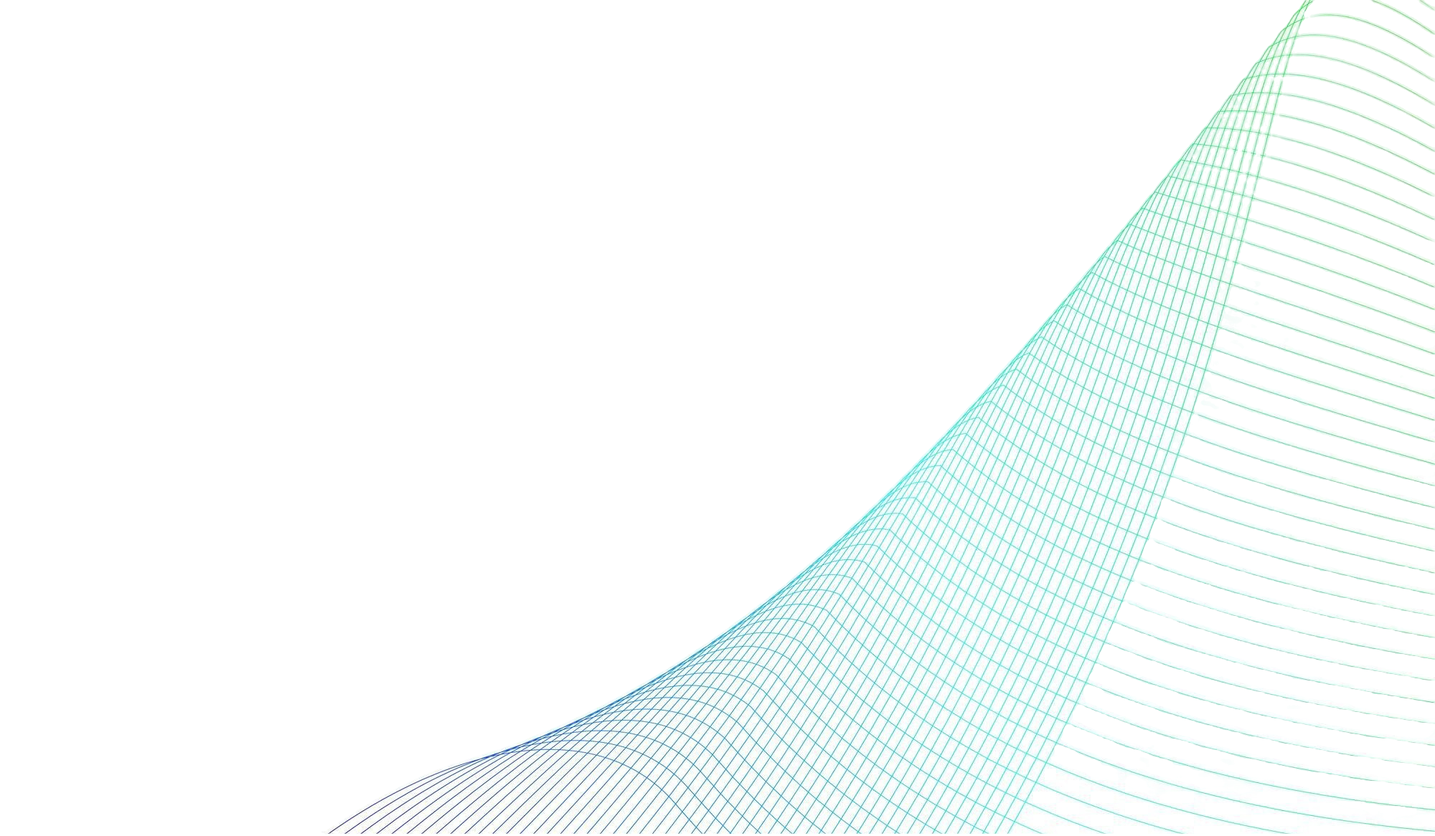
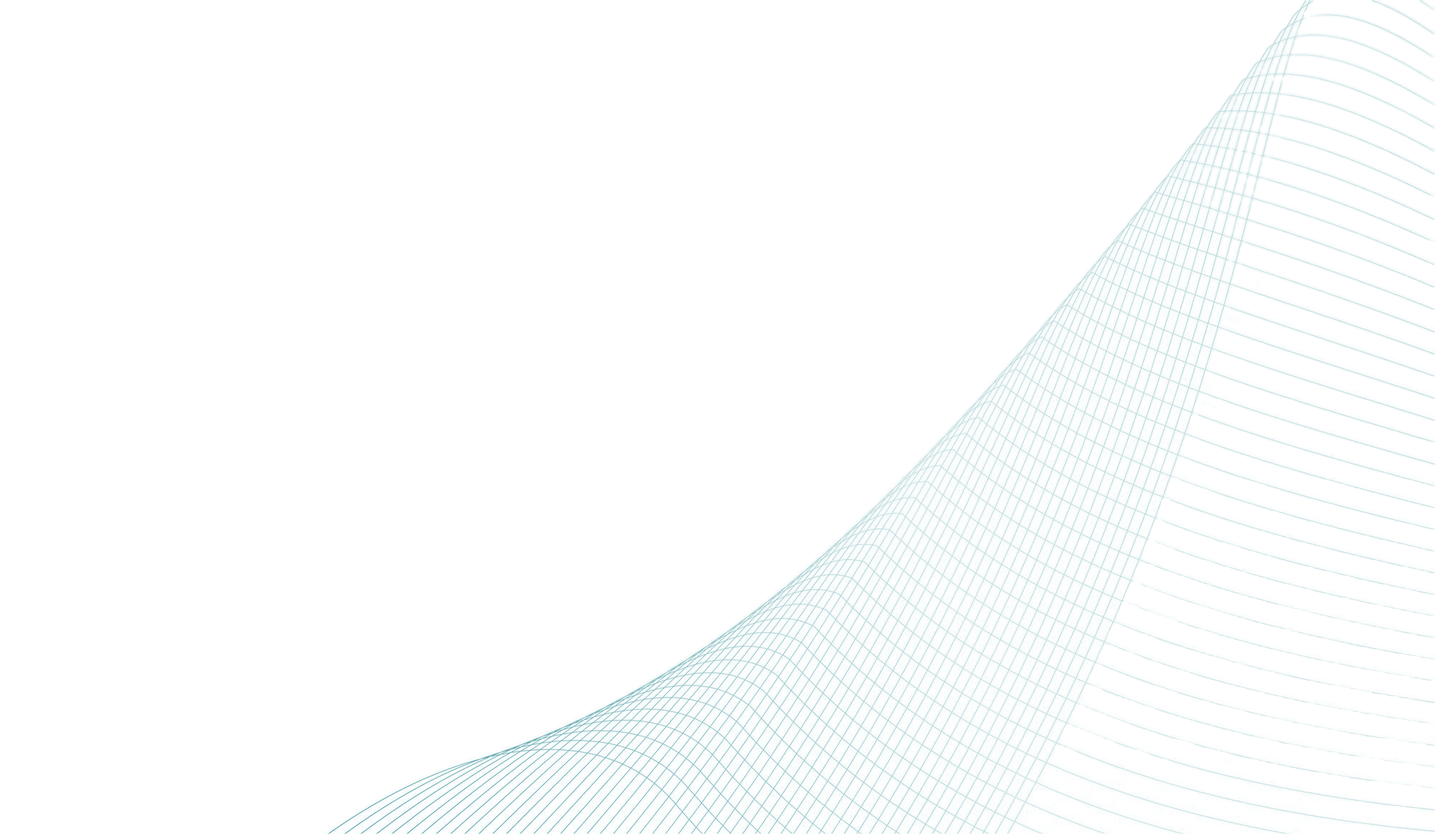
Changing colors and backgrounds

diff --git a/app/services/components/service.tsx b/app/services/components/service.tsx
@@ -56,14 +56,14 @@ export default function Service() {
     return (
         <section className="lg:flex lg:flex-col lg:items-center lg:h-full lg:w-full">
             <Header />
-            <div className="lg:grid lg:items-center lg:grid-cols-3 lg:p-10 lg:flex lg:w-full lg:h-full bg-white flex flex-col">
+            <div className="lg:grid lg:items-center lg:grid-cols-3 lg:p-10 lg:flex lg:w-full lg:h-full bg-white flex flex-col lg:overflow-hidden">
                 <div id="automation" className="lg:relative lg:w-[600px] lg:h-[700px] lg:rounded-[10px] lg:overflow-hidden 
                     before:absolute lg:before:top-[-50%] lg:before:bottom-[-50%] lg:before:right-[-50%] lg:before:left-[-50%]
                     before:top-[-80%] before:bottom-[-80%] before:right-[-80%] before:left-[-80%] 
-                    before:bg-[conic-gradient(transparent,#594A28,#00a6ff)]
+                    before:bg-[conic-gradient(transparent,#273950,#5ca9b1)]
                     before:animate-spin-slow group relative w-[400px] h-[800px] overflow-hidden rounded-[10px]" data-aos="fade-up-right">
                     <div className="lg:absolute absolute lg:flex flex lg:flex-col flex-col lg:gap-10 gap-5 items-center top-[5px] bottom-[5px] left-[5px] right-[5px] rounded-[10px] bg-white bg-[url(../public/rb_23189.png)] bg-cover bg-no-repeat">
-                        <h3 className="text-4xl pt-20 select-none text-left">Automation</h3>
+                        <h3 className="text-4xl pt-20 select-none text-[#1c5a6c]">Automation</h3>
                         <p className="text-2xl select-none text-justify p-10 backdrop-blur-2xl">Adjust and adapt AI agent features to meet your company&apos;s specific needs and preferences</p>
                         <div className="lg:flex lg:gap-40 lg:pt-5">
                             <AutomationList />
@@ -73,7 +73,7 @@ export default function Service() {
                             
                         </div>
                         <motion.button
-                            className="flex gap-2 absolute bottom-3 left-10 text-[#594A28] px-2 py-1 lg:opacity-0 lg:group-hover:opacity-100 lg:transition-opacity lg:duration-300"
+                            className="flex gap-2 absolute bottom-3 left-10 text-[#273950] px-2 py-1 lg:opacity-0 lg:group-hover:opacity-100 lg:transition-opacity lg:duration-300"
                             whileHover={{ scale: 1.3 }}
                             onClick={() => toggleShowMore('section1')}
                         >
@@ -85,16 +85,16 @@ export default function Service() {
                 <div id="consulting" className="lg:relative lg:w-[600px] lg:h-[700px] lg:rounded-[10px] lg:overflow-hidden 
                     before:absolute lg:before:top-[-50%] lg:before:bottom-[-50%] lg:before:right-[-50%] lg:before:left-[-50%]
                     before:top-[-80%] before:bottom-[-80%] before:right-[-80%] before:left-[-80%] 
-                    before:bg-[conic-gradient(transparent,#594A28,#00a6ff)]
+                    before:bg-[conic-gradient(transparent,#273950,#5ca9b1)]
                     before:animate-spin-slow group relative w-[400px] h-[800px] overflow-hidden rounded-[10px]" data-aos="fade-up">
                     <div className="absolute flex flex-col items-center gap-10 top-[5px] bottom-[5px] left-[5px] right-[5px] rounded-[10px] bg-white bg-[url(../public/673.png)] bg-cover bg-no-repeat">
-                        <h3 className="text-4xl pt-20 select-none">Consulting</h3>
+                        <h3 className="text-4xl pt-20 select-none text-[#1c5a6c]">Consulting</h3>
                         <p className="text-2xl text-justify p-10 select-none backdrop-blur-2xl">Software and technology to execute repetitive and routine tasks that save time, reduce errors and increase operational efficiency in various areas, from business management to software development</p>
                         <div>
                             <ConsultingList />
                         </div>
                         <motion.button
-                            className="flex gap-2 absolute bottom-3 left-10 text-[#594A28] px-2 py-1 lg:opacity-0 lg:group-hover:opacity-100 lg:transition-opacity lg:duration-300"
+                            className="flex gap-2 absolute bottom-3 left-10 text-[#273950] px-2 py-1 lg:opacity-0 lg:group-hover:opacity-100 lg:transition-opacity lg:duration-300"
                             whileHover={{ scale: 1.3 }}
                             onClick={() => toggleShowMore('section2')}
                         >
@@ -103,13 +103,13 @@ export default function Service() {
                         </motion.button>
                     </div>
                 </div>
-                <div id="development" className="relative lg:w-[600px] lg:h-[700px] rounded-[10px] overflow-hidden 
+                <div id="development" className="relative lg:w-[600px] lg:h-[700px] rounded-[10px] lg:overflow-hidden 
                     before:absolute lg:before:top-[-50%] lg:before:bottom-[-50%] lg:before:right-[-50%] lg:before:left-[-50%]
                     before:top-[-80%] before:bottom-[-80%] before:right-[-80%] before:left-[-80%]
-                    before:bg-[conic-gradient(transparent,#594A28,#00a6ff)]
+                    before:bg-[conic-gradient(transparent,#273950,#5ca9b1)]
                     before:animate-spin-slow group relative w-[400px] h-[800px] overflow-hidden rounded-[10px]" data-aos="fade-up-left">
                     <div className="lg:absolute absolute lg:flex lg:flex-col lg:items-center lg:gap-5 top-[5px] bottom-[5px] left-[5px] right-[5px] rounded-[10px] bg-white bg-[url(../public/rb_5102.png)] bg-cover bg-no-repeat">
-                        <h3 className="text-4xl pt-20 pb-5 select-none text-center select-none">Development</h3>
+                        <h3 className="text-4xl pt-20 pb-5 select-none text-center text-[#1c5a6c]">Development</h3>
                         <p className="text-2xl pl-10 pr-10 text-justify text-center select-none backdrop-blur-2xl">Maximize your team&apos;s efficiency and productivity with our integration solution that effortlessly connects with the most popular tools on the market. Our platform makes your workflow easier by uniting your favorite tools in one place</p>
                         <div className="flex flex-col">
                             <div className="pt-10 pl-48">
@@ -118,7 +118,7 @@ export default function Service() {
                             <LogoSlider />
                         </div>
                         <motion.button
-                            className="flex gap-2 absolute bottom-3 left-10 text-[#594A28] px-2 py-1 lg:opacity-0 lg:group-hover:opacity-100 lg:transition-opacity lg:duration-300"
+                            className="flex gap-2 absolute bottom-3 left-10 text-[#273950] px-2 py-1 lg:opacity-0 lg:group-hover:opacity-100 lg:transition-opacity lg:duration-300"
                             whileHover={{ scale: 1.3 }}
                             onClick={() => toggleShowMore('section3')}
                         >
@@ -130,11 +130,11 @@ export default function Service() {
             </div>
             {showMoreSection === "section1" && (
                 <motion.div ref={sectionRefs.section1}
-                    className="flex flex-col gap-5 text-justify border-2 border-[#594A28] bg-white"
+                    className="flex flex-col gap-5 text-justify border-2 border-[#273950] bg-white"
                     initial={{ height: 0, opacity: 0 }}
                     animate={{ height: "auto", opacity: 1 }}
                     transition={{ duration: 0.5 }} >
-                    <div className="w-full bg-cyan-700 p-10 flex flex-col gap-10 items-center">
+                    <div className="w-full bg-[#1c5a6c] p-10 flex flex-col gap-10 items-center">
                         <h2 className="text-4xl text-white select-none">The #1 AI and Automation Agency</h2>
                         <p className="text-3xl text-white select-none p-10">We combine artificial intelligence with automation to create incredibly efficient processes that connect your apps and automate actions between them, which replaces manual work for massive gains in your team&apos;s bandwidth, quality, speed and customer experience. Fully custom and done-for-you</p>
                     </div>
@@ -153,7 +153,7 @@ export default function Service() {
                         <AutomationEnd />
                     </div>
                     <div className="flex jusify-center z-4">
-                        <motion.button className="relative flex gap-2 items-center text-[#594A28] px-4 py-2"
+                        <motion.button className="relative flex gap-2 items-center text-[#273950] px-4 py-2"
                             onClick={handleGoBack}
                             whileHover={{ scale: 1.3 }}
                             style={{ transformOrigin: 'center center' }}
@@ -165,11 +165,11 @@ export default function Service() {
                 </motion.div>)}
             {showMoreSection === "section2" && (
                 <motion.div ref={sectionRefs.section2}
-                    className="flex flex-col gap-5 text-justify border-2 border-[#594A28] bg-white"
+                    className="flex flex-col gap-5 text-justify border-2 border-[#273950] bg-white"
                     initial={{ height: 0, opacity: 0 }}
                     animate={{ height: 'auto', opacity: 1 }}
                     transition={{ duration: 0.5 }} >
-                    <div className="w-full bg-cyan-700 p-10 flex flex-col gap-10 items-center">
+                    <div className="w-full bg-[#1c5a6c] p-10 flex flex-col gap-10 items-center">
                         <h2 className="text-4xl text-white">Consulting</h2>
                         <p className="text-3xl text-white">We combine artificial intelligence with automation to create incredibly efficient processes that connect your apps and automate actions between them, which replaces manual work for massive gains in your team&apos;s bandwidth, quality, speed and customer experience. Fully custom and done-for-you</p>
                     </div>
@@ -188,7 +188,7 @@ export default function Service() {
                         <AutomationEnd />
                     </div>
                     <div className="flex jusify-center">
-                        <motion.button className="relative flex gap-2 items-center mt-4 text-[#594A28] px-4 py-2"
+                        <motion.button className="relative flex gap-2 items-center mt-4 text-[#273950] px-4 py-2"
                             onClick={handleGoBack}
                             whileHover={{ scale: 1.3 }}
                             style={{ transformOrigin: "center center" }}
@@ -200,11 +200,11 @@ export default function Service() {
                 </motion.div>)}
             {showMoreSection === "section3" && (
                 <motion.div ref={sectionRefs.section3}
-                    className="flex flex-col gap-5 text-justify border-2 border-[#594A28] bg-white"
+                    className="flex flex-col gap-5 text-justify border-2 border-[#273950] bg-white"
                     initial={{ height: 0, opacity: 0 }}
                     animate={{ height: "auto", opacity: 1 }}
                     transition={{ duration: 0.5 }} >
-                    <div className="w-full bg-cyan-700 p-10 flex flex-col gap-10 items-center">
+                    <div className="w-full bg-[#1c5a6c] p-10 flex flex-col gap-10 items-center">
                         <h2 className="text-4xl text-white">Development</h2>
                         <p className="text-3xl text-white">We combine artificial intelligence with automation to create incredibly efficient processes that connect your apps and automate actions between them, which replaces manual work for massive gains in your team&apos;s bandwidth, quality, speed and customer experience. Fully custom and done-for-you</p>
                     </div>
@@ -223,7 +223,7 @@ export default function Service() {
                         <AutomationEnd />
                     </div>
                     <div className="flex jusify-center">
-                        <motion.button className="relative flex gap-2 items-center mt-4 text-[#594A28] px-4 py-2"
+                        <motion.button className="relative flex gap-2 items-center mt-4 text-[#273950] px-4 py-2"
                             onClick={handleGoBack}
                             whileHover={{ scale: 1.3 }}
                             style={{ transformOrigin: "center center" }}

diff --git a/app/why-agentify/components/comparison.tsx b/app/why-agentify/components/comparison.tsx
@@ -1,37 +1,37 @@
 export default function Comparison() {
     return (
         <section className="py-20 px-5 flex flex-col items-center justify-center">
-            <div className="max-w-7xl mx-auto">
+            <div className="max-w-7xl mx-auto overflow-hidden">
                 <h2 className="text-4xl font-bold text-center pb-16 text-[#1c5a6c]"> Why Agentify? Quick Comparison </h2>
-                <div className="overflow-x-auto">
-                    <table className="w-[500px] bg-white border-2 border-[#293750] table-fixed pr-28">
-                        <thead className="text-[#1c5a6c] font-bold">
+                <div className="overflow-x-auto no-scrollbar">
+                    <table className="w-[500px] bg-white overflow-hidden">
+                        <thead className="text-[#1c5a6c] font-bold text-xl">
                             <tr>
                                 <th className="px-4 py-2" data-aos="fade-down" data-aos-delay="100">Feature</th>
                                 <th className="px-4 py-2" data-aos="fade-down" data-aos-delay="200">Agentify</th>
                                 <th className="px-4 py-2" data-aos="fade-down" data-aos-delay="300">Competitors</th>
                             </tr>
                         </thead>
-                        <tbody className="text-[#273950]">
+                        <tbody className="text-[#273950] text-xl">
                             <tr>
                                 <td className="border px-4 py-2" data-aos="fade-right" data-aos-delay="100">Tailored Solutions</td>
-                                <td className="border px-4 py-2" data-aos="fade-up" data-aos-delay="200">✅</td>
-                                <td className="border px-4 py-2" data-aos="fade-up" data-aos-delay="300">❌</td>
+                                <td className="border px-4 py-2 text-center" data-aos="fade-up" data-aos-delay="200">✅</td>
+                                <td className="border px-4 py-2 text-center" data-aos="fade-up" data-aos-delay="300">❌</td>
                             </tr>
                             <tr>
                                 <td className="border px-4 py-2" data-aos="fade-right" data-aos-delay="200">Cutting-Edge AI</td>
-                                <td className="border px-4 py-2" data-aos="fade-up" data-aos-delay="300">✅</td>
-                                <td className="border px-4 py-2" data-aos="fade-up" data-aos-delay="400">⚠</td>
+                                <td className="border px-4 py-2 text-center" data-aos="fade-up" data-aos-delay="300">✅</td>
+                                <td className="border px-4 py-2 text-center" data-aos="fade-up" data-aos-delay="400">⚠</td>
                             </tr>
                             <tr>
                                 <td className="border px-4 py-2" data-aos="fade-right" data-aos-delay="200">Proven Results</td>
-                                <td className="border px-4 py-2" data-aos="fade-up" data-aos-delay="300">✅</td>
-                                <td className="border px-4 py-2" data-aos="fade-up" data-aos-delay="400">⚠</td>
+                                <td className="border px-4 py-2 text-center" data-aos="fade-up" data-aos-delay="300">✅</td>
+                                <td className="border px-4 py-2 text-center" data-aos="fade-up" data-aos-delay="400">⚠</td>
                             </tr>
                             <tr>
                                 <td className="border px-4 py-2" data-aos="fade-right" data-aos-delay="200">24/7 Support</td>
-                                <td className="border px-4 py-2" data-aos="fade-up" data-aos-delay="300">✅</td>
-                                <td className="border px-4 py-2" data-aos="fade-up" data-aos-delay="400">⚠</td>
+                                <td className="border px-4 py-2 text-center" data-aos="fade-up" data-aos-delay="300">✅</td>
+                                <td className="border px-4 py-2 text-center" data-aos="fade-up" data-aos-delay="400">⚠</td>
                             </tr>
                         </tbody>
                     </table>

diff --git a/app/services/components/workflowContent2.tsx b/app/services/components/workflowContent2.tsx
@@ -1,29 +1,29 @@
 import Image from "next/image";
 
-export default function WorkflowContent() {
+export default function WorkflowContent2() {
     return (
         <div className="grid grid-cols-4 z-2 gap-10 p-10 absolute lg:top-40 flex gap-10 -ml-44">
             <div className="flex flex-col items-center gap-3">
                 <Image src="/search.svg" alt="process" width={100} height={100} className="bg-white" />
-                <span className="pl-4 text-lg bg-clip-text text-transparent bg-gradient-to-r from-cyan-500 to-blue-700">Step 1</span>
+                <span className="pl-4 text-lg bg-clip-text text-transparent bg-gradient-to-r from-[#1c5a6c] to-[#5ca9b1]">Step 1</span>
                 <h4 className="text-lg font-bold select-none">Consult</h4>
                 <p className="select-none text-center w-[300px]">Here we scope out your inefficiencies, workflows, tech stack and goals.</p>
             </div>
             <div className="flex flex-col items-center gap-3">
                 <Image src="/workflow.svg" alt="process" width={100} height={100} className="bg-white" />
-                <span className="pl-4 text-lg bg-clip-text text-transparent bg-gradient-to-r from-cyan-500 to-blue-700">Step 2</span>
+                <span className="pl-4 text-lg bg-clip-text text-transparent bg-gradient-to-r from-[#1c5a6c] to-[#5ca9b1]">Step 2</span>
                 <h4 className="text-lg font-bold select-none">Workflow mapping</h4>
                 <p className="select-none text-center w-[300px]">We map out every process A-Z that can be automated, then let you prioritize.</p>
             </div>
             <div className="flex flex-col items-center gap-3">
                 <Image src="/check.svg" alt="process" width={100} height={100} className="bg-white" />
-                <span className="pl-4 text-lg bg-clip-text text-transparent bg-gradient-to-r from-cyan-500 to-blue-700">Step 3</span>
+                <span className="pl-4 text-lg bg-clip-text text-transparent bg-gradient-to-r from-[#1c5a6c] to-[#5ca9b1]">Step 3</span>
                 <h4 className="text-lg font-bold select-none">Done-for-you builds</h4>
                 <p className="select-none text-center w-[300px]">We execute and quality check until everything works without bugs.</p>
             </div>
             <div className="flex flex-col items-center gap-3">
                 <Image src="/headset.svg" alt="process" width={100} height={100} className="bg-white" />
-                <span className="pl-4 text-lg bg-clip-text text-transparent bg-gradient-to-r from-cyan-500 to-blue-700">Step 4</span>
+                <span className="pl-4 text-lg bg-clip-text text-transparent bg-gradient-to-r from-[#1c5a6c] to-[#5ca9b1]">Step 4</span>
                 <h4 className="text-lg font-bold select-none">Ongoing support</h4>
                 <p className="select-none text-center w-[300px]">While we start with a simple project, we often unearth new opportunities.</p>
             </div>

diff --git a/app/services/components/workflowContent.tsx b/app/services/components/workflowContent.tsx
@@ -5,25 +5,25 @@ export default function WorkflowContent() {
         <div className="grid grid-cols-4 z-2 gap-10 p-10 absolute lg:top-40 flex gap-10 -ml-44">
             <div className="flex flex-col items-center gap-3">
                 <Image src="/process.svg" alt="process" width={100} height={100} className="bg-white" />
-                <span className="pl-4 text-lg bg-clip-text text-transparent bg-gradient-to-r from-cyan-500 to-blue-700">Step 1</span>
+                <span className="pl-4 text-lg bg-clip-text text-transparent bg-gradient-to-r from-[#1c5a6c] to-[#5ca9b1]">Step 1</span>
                 <h4 className="text-lg font-bold select-none">We map out your processes</h4>
                 <p className="select-none text-center w-[300px]">We&apos;ll create a visual map of all your systems, manual tasks and apps.</p>
             </div>
             <div className="flex flex-col items-center gap-3">
                 <Image src="/find.svg" alt="process" width={100} height={100} className="bg-white" />
-                <span className="pl-4 text-lg bg-clip-text text-transparent bg-gradient-to-r from-cyan-500 to-blue-700">Step 2</span>
+                <span className="pl-4 text-lg bg-clip-text text-transparent bg-gradient-to-r from-[#1c5a6c] to-[#5ca9b1]">Step 2</span>
                 <h4 className="text-lg font-bold select-none">We find areas to add AI and automate</h4>
                 <p className="select-none text-center w-[300px]">We audit your workflows to pinpoint opportunities with the highest ROI.</p>
             </div>
             <div className="flex flex-col items-center gap-3">
                 <Image src="/test.svg" alt="process" width={100} height={100} className="bg-white" />
-                <span className="pl-4 text-lg bg-clip-text text-transparent bg-gradient-to-r from-cyan-500 to-blue-700">Step 3</span>
+                <span className="pl-4 text-lg bg-clip-text text-transparent bg-gradient-to-r from-[#1c5a6c] to-[#5ca9b1]">Step 3</span>
                 <h4 className="text-lg font-bold select-none">We build and test</h4>
                 <p className="select-none text-center w-[300px]">We use a mix of custom code, AI tools, Zapier, Make.com and your tech stack.</p>
             </div>
             <div className="flex flex-col items-center gap-3">
                 <Image src="/manage.svg" alt="process" width={100} height={100} className="bg-white" />
-                <span className="pl-4 text-lg bg-clip-text text-transparent bg-gradient-to-r from-cyan-500 to-blue-700">Step 4</span>
+                <span className="pl-4 text-lg bg-clip-text text-transparent bg-gradient-to-r from-[#1c5a6c] to-[#5ca9b1]">Step 4</span>
                 <h4 className="text-lg font-bold select-none">We manage and iterate</h4>
                 <p className="select-none text-center w-[300px]">Every client we work with grows, so there&apos;s always new things to automate.</p>
             </div>

diff --git a/app/case-studies/components/case-header.tsx b/app/case-studies/components/case-header.tsx
@@ -9,7 +9,7 @@ export default function CaseHeader() {
 
     return (
         <div className="flex flex-col items-center w-full">
-            <motion.div className="flex justify-center group relative box-content border-2 w-full h-[600px]" whileHover={{ boxShadow: "0 0 50px rgb(0, 204, 255)" }}
+            <motion.div className="flex items-center justify-center group relative box-content border-2 w-full lg:h-svh" whileHover={{ boxShadow: "0 0 50px rgb(28, 90, 108)" }}
                 initial="hidden"
                 animate="visible"
                 variants={variants}
@@ -17,20 +17,20 @@ export default function CaseHeader() {
             >
                 <div>
                     <Image 
-                        src="/edr5.png"
+                        src="/bg-case.png"
                         alt="bg_cases"
                         fill
                         priority
                         quality={100}
                     />
                 </div>
-                <h2 className="absolute text-6xl text-center box-content w-[1200px] p-3 top-48 text-white font-bold backdrop-blur-sm rounded-2xl">Discover how our automations have reduced our client&apos;s labor costs, optimized their processes to excellence, and boosted their income.</h2>
+                <h2 className="text-6xl text-center absolute w-[1200px] p-3 text-white font-bold">Discover how our automations have reduced our client&apos;s labor costs, optimized their processes to excellence, and boosted their income.</h2>
             </motion.div>
             <motion.div initial="hidden"
                 animate="visible"
                 variants={variants}
                 transition={{ duration: 0.5 }}>
-                <h3 className="text-5xl font-bold text-transparent m-10 p-10 bg-clip-text bg-gradient-to-r from-cyan-500 to-blue-700">Case Studies</h3>
+                <h3 className="text-5xl font-bold text-transparent m-10 p-10 bg-clip-text bg-gradient-to-r from-[#1c5a6c] to-[#5ca9b1]">Case Studies</h3>
             </motion.div>
         </div>
     );

diff --git a/app/why-agentify/components/intro.tsx b/app/why-agentify/components/intro.tsx
@@ -1,24 +1,19 @@
 
 export default function Intro() {
   return (
-    <section className="pt-52 pb-20 px-5 xl:pt-64 flex flex-col gap-10">
+    <section className="pt-52 pb-20 px-5 xl:pt-64 flex flex-col gap-10 bg-[url(../public/rb_4182.png)] bg-fixed bg-center">
       <h2 className="text-5xl font-bold text-center mb-8" data-aos="fade-up" data-aos-delay="100">
         Why Choose Agentify?
       </h2>
-      <div className="max-w-3xl mx-auto flex flex-col gap-16 lg:flex-row lg:gap-5">
-        {/* Mission Section */}
-        <div className="md:px-20 lg:px-0" data-aos="fade-up" data-aos-delay="200">
-          <h2 className="text-4xl font-bold text-center mb-8 text-[#1c5a6c]">
-            Transforming Businesses with Tailored AI Solutions
-          </h2>
-          <div className="p-5 flex flex-col items-center border-2 border-[#273950] rounded-lg">
-            <p className="text-xl text-gray-700 text-center leading-relaxed">
-              Agentify provides custom AI automation solutions, including AI agents and chatbots,
-              that save time, reduce costs, and drive measurable growth for businesses of all sizes.
-              Whether you're a startup or an enterprise, our solutions are built to scale alongside your business.
-            </p>
-          </div>
-        </div>
+      <div className="max-w-3xl mx-auto flex flex-col gap-16 lg:flex lg:flex-col lg:gap-16" data-aos="fade-up" data-aos-delay="200">
+        <h2 className="text-4xl font-bold text-center text-[#1c5a6c]">
+          Transforming Businesses with Tailored AI Solutions
+        </h2>
+        <p className="text-xl text-gray-700 text-center leading-relaxed">
+          Agentify provides custom AI automation solutions, including AI agents and chatbots,
+          that save time, reduce costs, and drive measurable growth for businesses of all sizes.
+          Whether you're a startup or an enterprise, our solutions are built to scale alongside your business.
+        </p>
       </div>
     </section>
   );

diff --git a/app/services/components/header.tsx b/app/services/components/header.tsx
@@ -8,7 +8,7 @@ export default function Header() {
   };
 
   return (
-      <motion.div className="lg:flex lg:justify-center group lg:relative border-2 border-[#594A28] lg:w-full lg:h-[600px] flex relative justify-center w-screen h-[650px]" whileHover={{ boxShadow: '0 0 50px rgb(0, 204, 255)' }}
+      <motion.div className="lg:flex lg:justify-center group lg:relative border-2 border-[#594A28] lg:w-full lg:h-svh flex relative justify-center w-screen h-svh" whileHover={{ boxShadow: '0 0 50px rgb(28, 90, 108)' }}
         initial="hidden"
         animate="visible"
         variants={variants}
@@ -23,8 +23,8 @@ export default function Header() {
             quality={100}
           />
         </div>
-        <h2 className="lg:absolute lg:top-10 lg:text-8xl lg:items-start lg:pt-8 lg:m-10 lg:-ml-32 lg:text-white lg:font-bold select-none lg:backdrop-blur-sm lg:rounded-2xl lg:w-auto lg:h-40 text-6xl pt-10 text-white w-[300px] absolute">Innovate, Automate, Dominate.</h2>
-        <p className="lg:absolute lg:bottom-20 select-none lg:text-5xl text-white text-justify text-center font-bold box-content lg:p-2 lg:backdrop-blur-sm  lg:rounded-2xl lg:w-[1100px] text-2xl absolute bottom-5 w-[300px]">Agentify.ai is more than just an automation tool. It is the perfect ally for your business and the guide to efficiency and the future.</p>
+        <h2 className="lg:absolute lg:top-10 lg:text-8xl lg:items-start lg:pt-56 lg:m-10 lg:-ml-32 lg:text-white lg:font-bold select-none lg:w-auto lg:h-40 text-6xl pt-28 text-white w-[300px] absolute">Innovate, Automate, Dominate.</h2>
+        <p className="lg:absolute lg:bottom-36 select-none lg:text-5xl text-white text-justify text-center font-bold lg:p-2 lg:w-[1100px] text-2xl absolute bottom-5 w-[300px]">Agentify.ai is more than just an automation tool. It is the perfect ally for your business and the guide to efficiency and the future.</p>
       </motion.div>
   );
 }

diff --git a/app/services/components/automationEnd.tsx b/app/services/components/automationEnd.tsx
@@ -7,7 +7,7 @@ import GridCarousel from "./gridcarousel";
 export default function AutomationEnd() {
     return (
         <motion.div>
-            <div className="flex p-10 justify-center items-center gap-10 w-full bg-sky-700 z-3">
+            <div className="flex p-10 justify-center items-center gap-10 w-full bg-[#1c5a6c] z-3">
                 <div className="flex flex-col gap-5 p-10">
                     <h3 className="text-3xl text-white">We connect all your apps</h3>
                     <p className="text-xl text-white">Plus thousands more through APIs, custom code and web hooks.</p>
@@ -21,7 +21,7 @@ export default function AutomationEnd() {
                 <div className="flex flex-col gap-10 p-10">
                     <p className="text-xl w-[500px]">Whether you need help with a one-off project, or you need custom coding for highly complex automations involving several apps, we&apos;ll get it done.</p>
                     <Link href="/contact">
-                        <button className="bg-sky-800 border border-transparent transition duration-300 hover:scale-110 hover:easy-in-out hover:border hover:border-[#594A28] text-white text-xl p-5 lg:rounded-2xl w-[200px]">Book a call</button>
+                        <button className="bg-[#5ca9b1] border border-transparent transition easy-in-out duration-300 hover:scale-110 text-white text-xl p-5 lg:rounded-2xl w-[200px]">Book a call</button>
                     </Link>
                 </div>
             </div>

diff --git a/app/services/components/logoSlider.tsx b/app/services/components/logoSlider.tsx
@@ -68,7 +68,7 @@ const listItems = [
 
 export default function ImageSlider() {
   return (
-    <div className='container lg:mx-auto my-10 lg:p-5 p-5 lg:w-[900px] w-[300px]'>
+    <div className='container lg:mx-auto my-10 lg:p-5 p-5 lg:w-[600px] w-[300px]'>
       <Swiper
         modules={[Navigation, Autoplay]}
         breakpoints={{
@@ -98,7 +98,7 @@ export default function ImageSlider() {
       >
         {listItems.map((item, index) => (
           <SwiperSlide key={index}>
-            <ul className="p-4 w-[130px] h-auto lg:grayscale lg:hover:grayscale-0">
+            <ul className="p-4 w-[130px] lg:w-[300px] h-auto lg:grayscale lg:hover:grayscale-0">
               {item}
             </ul>
           </SwiperSlide>
